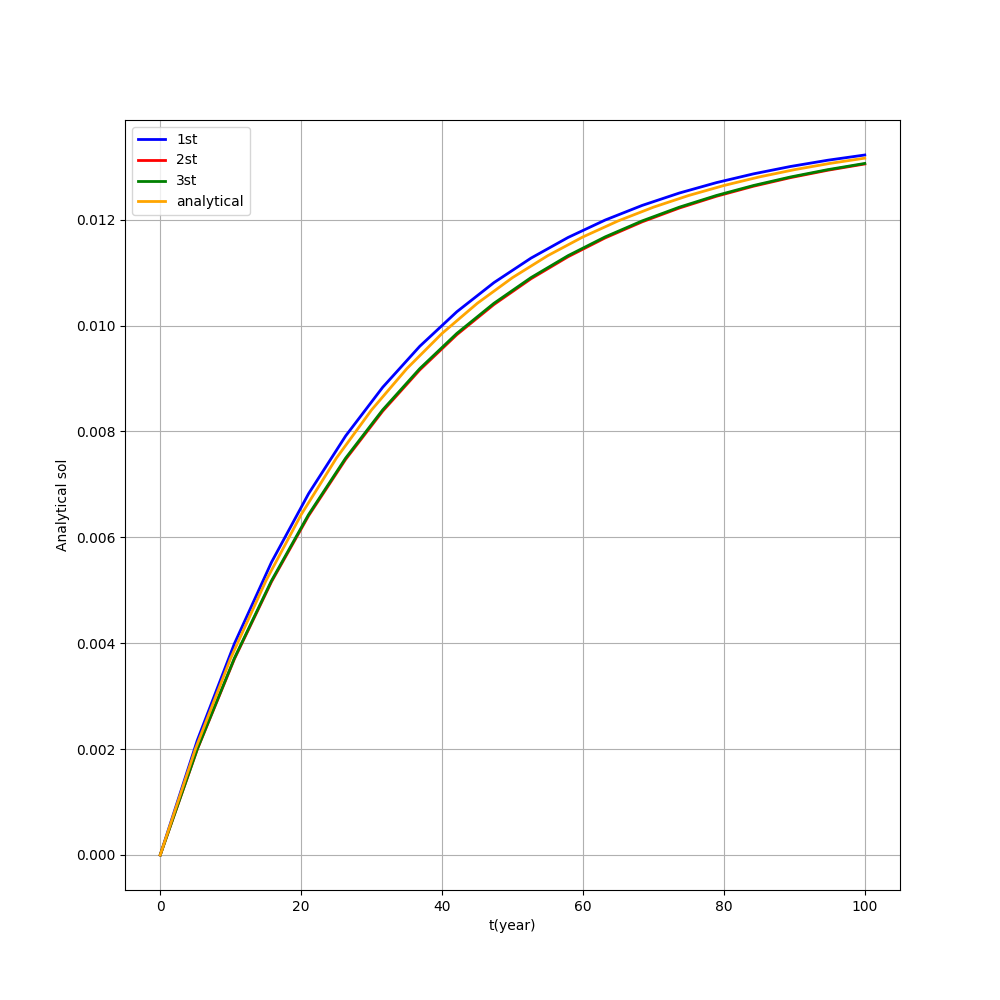
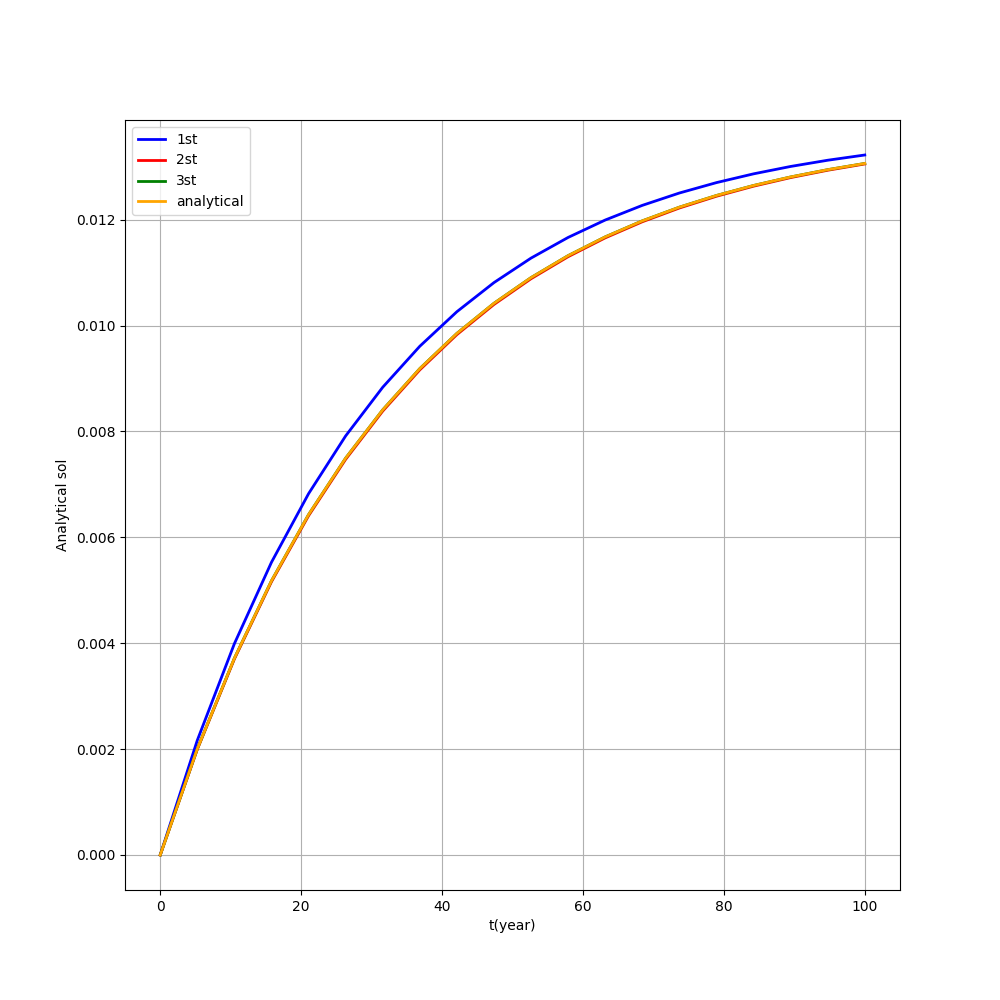
odinary diff eq solved

diff --git a/lab 5/q1.py b/lab 5/q1.py
@@ -31,7 +31,7 @@ df = diff(f, X)
 dft= diff(f,T)
 dfx = diff(df, X)
 
-t = np.linspace(TLOW, THIGH, DT +1)
+t = np.linspace(TLOW, THIGH, DT+1)
 
 #analitical soln
 y1 = odeint(returns_dydt, x0, t)
@@ -78,6 +78,10 @@ print(ans3)
 print()
 print(y1)
 
+print(len(ans3))
+print(len(y1))
+
+
 t1 = np.linspace(TLOW, THIGH, DT)
 
 
@@ -87,7 +91,7 @@ fig = plt.figure(figsize=(10, 10))
 plt.plot(t1, ans1, color='blue', label='1st', linewidth=2)
 plt.plot(t1, ans2, color='red', label='2st', linewidth=2)
 plt.plot(t1, ans3, color='green', label='3st', linewidth=2)
-plt.plot(t1, y1, color='orange', label='analytical', linewidth=2)
+plt.plot(t1, y1[:20], color='orange', label='analytical', linewidth=2)
 
 
 # plt.plot(t1, err1, color='red', label='1st', linewidth=2)
